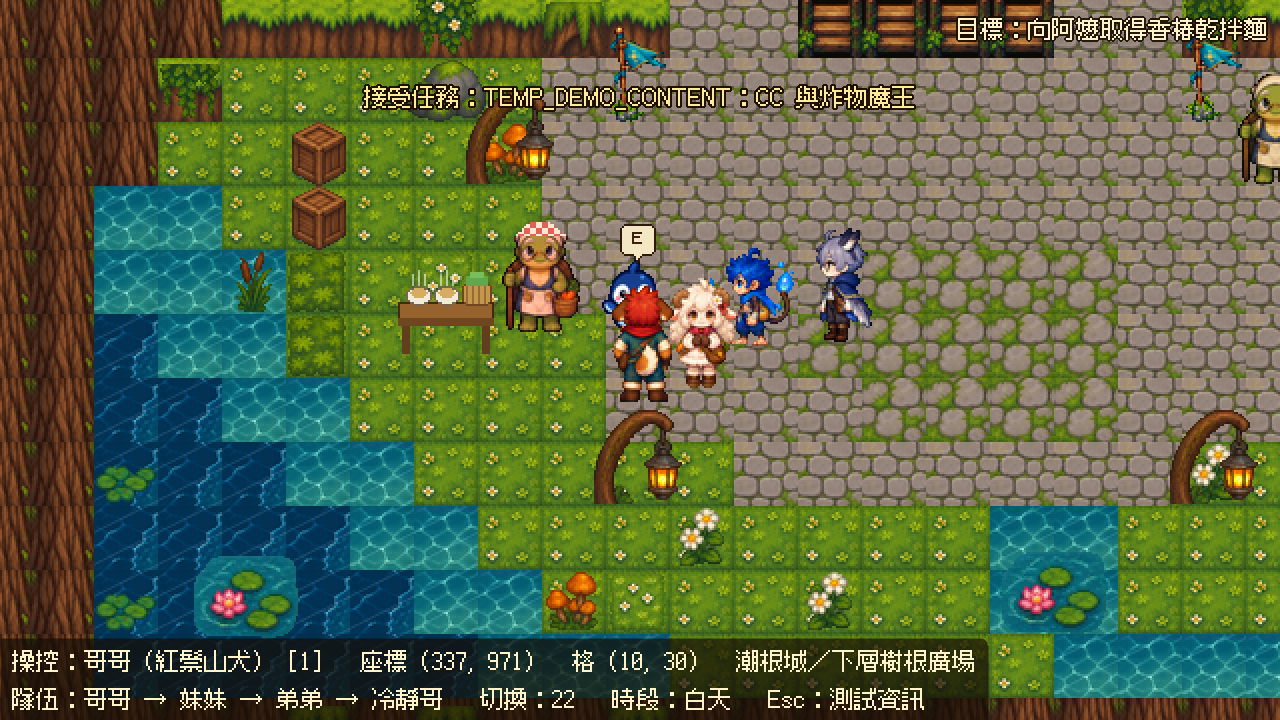
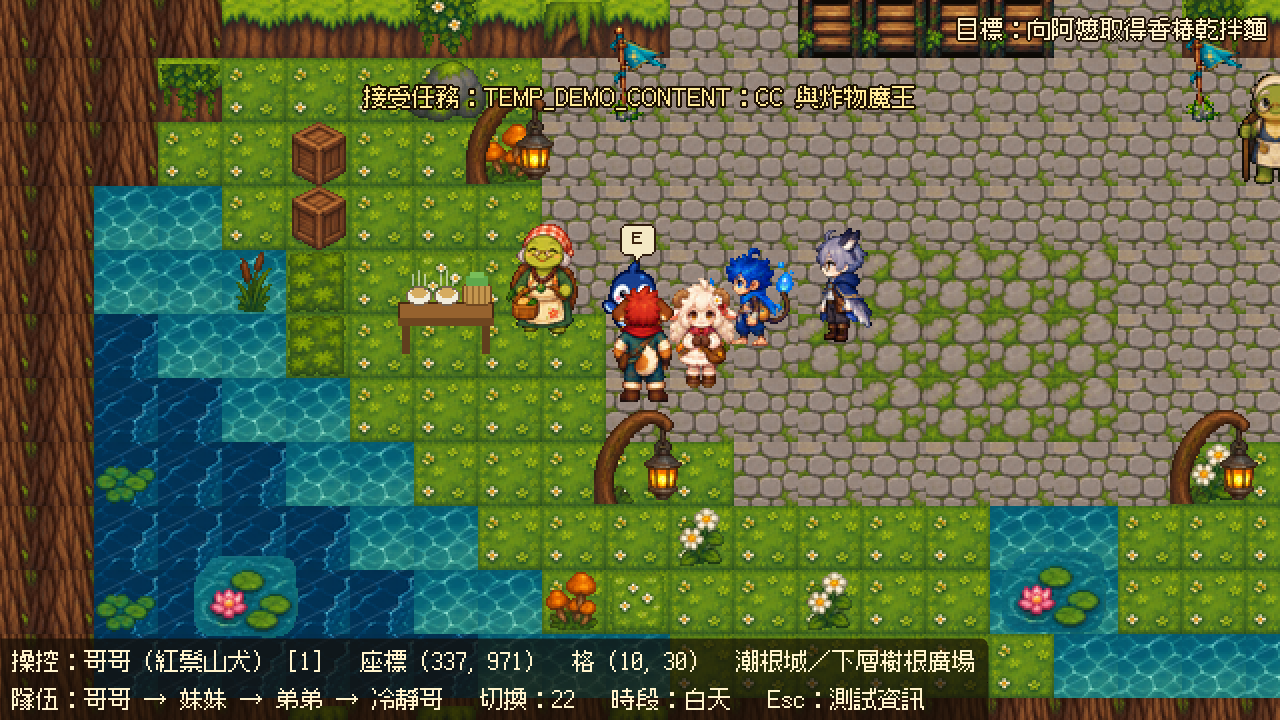
feat: 補上妹妹行動表與阿嬤正式精靈表（作者提供原圖）
- 妹妹 ACTION 參考圖：切出 carry／throw 四方向，sister_sheep.tres 接上行動表
- 阿嬤參考圖為五視角（非行走表）：重組為 down／left（鏡射）／right／up 站立幀後切割，取代老龜換色佔位
- build_character 可直接接收 Image；單元測試改為四張行動表與阿嬤 240×256
- 文件：PHASE_4_REPORT、ASSET_REQUEST D 節（僅剩洞窟參考待補）、手動流程、README、AGENTS

Claude-Session: https://claude.ai/code/session_01GHDh8zfAbX2ncmUix9vbN9

Changed region(s): [[0.375, 0.3056, 0.4688, 0.4583]]

diff --git a/tools/build_assets_phase4.py b/tools/build_assets_phase4.py
@@ -8,8 +8,8 @@
 - ITEM_throwables_vegetable_tea_water_reference.png：3 列（青菜、綠茶、水）× 4 欄（地面、舉起、飛行、命中）→ 每件 4 幀 28×28
 - FX_cc_battle_reference.png：傳送、投擲軌跡、命中、炸雞翅、消散、勝利 → 個別特效貼圖
 - ACTION_<角色>_carry_throw_reference.png：4 方向 × 4 欄 → 96×256（第 0 欄舉物、第 1 欄投擲）
-  妹妹的參考檔損毀（不是 PNG），沒有行動表：遊戲內以站立幀 + CarryAnchor 代替
-- 阿嬤與洞窟參考檔同樣損毀：阿嬤先用老龜換色當佔位；洞窟以合成的 32×32 tile 重建（tileset 第 5 列）
+  參考檔若不是 PNG（分支上曾有損毀檔）會略過並印出提示：遊戲內以站立幀 + CarryAnchor 代替
+- 阿嬤：正式參考圖存在時走主角切割器，否則用老龜換色當佔位；洞窟參考仍缺，以合成的 32×32 tile 重建（tileset 第 5 列）
 
 由 build_assets.py 自動呼叫，也可單獨執行：python3 tools/build_assets_phase4.py
 """
@@ -53,6 +53,7 @@ ACTION_SOURCES = {
 ACTION_ROW_ORDER = {
     "big_brother": ["down", "right", "left", "up"],
     "calm_brother": ["down", "right", "left", "up"],
+    "sister_sheep": ["down", "right", "left", "up"],
     "younger_brother": ["down", "right", "left", "up"],
 }
 OUTPUT_ROWS = ["down", "left", "right", "up"]
@@ -225,11 +226,35 @@ def build_action_sheets() -> None:
 # ---------------------------------------------------------------------------
 # 阿嬤（佔位）：老龜換色
 # ---------------------------------------------------------------------------
+def build_grandma_from_views(source: Path) -> None:
+    """阿嬤參考圖不是行走表：四列內容相同，每列是「正面、側面、側面提籃、背面、正面微笑」五種視角。
+    她是站立 NPC，只需要四個方向的站立幀；行走幀以兩種正面／側面交替填入（目前不會播放）。
+    組成 5 欄 × 4 列（第 0～3 欄行走、第 4 欄站立；列序 down/left/right/up）再交給主角切割器。"""
+    src = Image.open(source).convert("RGBA")
+    cells = grid_cells_n(src, 5, 4, min_area=200)
+    views = [src.crop(cells[(col, 0)]) for col in range(5)]
+    front, side, side_basket, back, front_smile = views
+    mirror = lambda im: im.transpose(Image.FLIP_LEFT_RIGHT)
+    rows = [
+        [front, front_smile, front, front_smile, front_smile],
+        [mirror(side), mirror(side_basket), mirror(side), mirror(side_basket), mirror(side)],
+        [side, side_basket, side, side_basket, side],
+        [back, back, back, back, back],
+    ]
+    cell_w = max(im.width for im in views) + 16
+    cell_h = max(im.height for im in views) + 16
+    synthetic = Image.new("RGBA", (cell_w * 5, cell_h * 4), (0, 0, 0, 0))
+    for row, images in enumerate(rows):
+        for col, im in enumerate(images):
+            synthetic.paste(im, (col * cell_w + (cell_w - im.width) // 2, row * cell_h + cell_h - 8 - im.height), im)
+    build_character(synthetic, OUT_NPCS / "grandma_turtle_sheet.png")
+
+
 def build_grandma_placeholder() -> None:
     source = INCOMING / "GRANDMA_turtle_breakfast_sheet_reference.png"
     if is_valid_png(source):
-        build_character(source, OUT_NPCS / "grandma_turtle_sheet.png")
-        print("grandma: 使用正式參考圖")
+        build_grandma_from_views(source)
+        print("grandma: 使用正式參考圖（五視角重組為四方向）")
         return
     turtle = Image.open(OUT_NPCS / "old_turtle_sheet.png").convert("RGBA")
     r, g, b, a = turtle.split()

diff --git a/tools/build_assets_phase2.py b/tools/build_assets_phase2.py
@@ -115,9 +115,9 @@ def grid_cells(src: Image.Image) -> dict[tuple[int, int], tuple[int, int, int, i
     return cells
 
 
-def build_character(source: Path, output: Path, max_height: int = CELL_H - 6) -> None:
-    """max_height：精靈在 48×64 格內的最大高度（主角 58；寵物等小型角色可傳較小值）。"""
-    src = Image.open(source).convert("RGBA")
+def build_character(source: Path | Image.Image, output: Path, max_height: int = CELL_H - 6) -> None:
+    """max_height：精靈在 48×64 格內的最大高度（主角 58；寵物等小型角色可傳較小值）。source 可直接傳 Image。"""
+    src = (source if isinstance(source, Image.Image) else Image.open(source)).convert("RGBA")
     width, height = src.size
     cell_w, cell_h = width / REF_COLUMNS, height / REF_ROWS
     cells = grid_cells(src)

diff --git a/docs/PHASE_4_REPORT.md b/docs/PHASE_4_REPORT.md
@@ -24,7 +24,7 @@
 | 只有操控角色可撿 | 完成 | `CarrySystem.pick_up()` 只對 `party.get_leader()` 生效；跟隨者不撿、不丟 |
 | CarryAnchor | 完成 | `playable_character.tscn` 新增 `VisualRoot/CarryAnchor`（0, −60）；物品貼圖掛在此節點，不畫進角色 Sprite |
 | 投擲 | 完成 | 舉著物品時 E → `CarrySystem.throw()` → `ThrownProjectile`（Area2D，只偵測物理層 5 Boss）沿面向飛 150px、視覺拋物線；起飛時以 `landing_point()` 把射程截到牆前，不會飛進牆。命中發 `hit_boss`，落地發 `landed`（物品掉在落點可再撿） |
-| 四位角色共用 | 完成 | 哥哥、冷靜哥、弟弟有 `carry_*`／`throw_*` 幀（行動表 96×256）；妹妹參考檔損毀，退回站立幀 + CarryAnchor，流程相同 |
+| 四位角色共用 | 完成 | 四位都有 `carry_*`／`throw_*` 幀（行動表 96×256）；妹妹的參考檔原本損毀，後由作者從 Downloads 提供原圖補上。沒有行動表的角色會退回站立幀 + CarryAnchor |
 
 ### 4C 炸物魔王
 
@@ -57,8 +57,9 @@
 | Boss 3×2 參考（棋盤格烙在像素裡） | `assets/characters/boss/fried_food_demon_sheet.png` 480×80（6 幀） | 從四邊泛洪去除連到邊緣的近白中性灰，雞身內的白色骨頭保留 |
 | 投擲物 4×3 | `assets/items/{vegetable_bundle,green_tea,water_flask}.png` 112×28（地面／舉起／飛行／命中） | 依格切割 |
 | 特效 3×2 | `assets/effects/fx_teleport／fx_hit_sparkle／fx_poof／fx_victory／fx_chicken_wing.png` | 依格切割；炸雞翅取掉落格中最大的單一元件；投擲軌跡改由程式旋轉與拋物線呈現 |
-| 行動表（哥哥、冷靜哥、弟弟） | `assets/characters/playable/<id>_action_sheet.png` 96×256 | 4×4 參考取第 0 欄（舉物）與第 2 欄（投擲）；列序 down/right/left/up 轉成專案的 down/left/right/up；縮放以既有站立幀寬度對齊，避免撿起時身形跳動 |
-| **妹妹行動表、洞窟參考、阿嬤參考** | — | **三個檔案不是 PNG（開頭為亂碼，遠端分支上就已損毀）**。妹妹以站立幀代替；洞窟依規劃用 32×32 tile 合成重建（tileset 第 5 列：地面、岩壁、油漬地面、受光牆面）；阿嬤以老龜換色 + 格紋頭巾當佔位 |
+| 行動表（四位） | `assets/characters/playable/<id>_action_sheet.png` 96×256 | 4×4 參考取第 0 欄（舉物）與第 2 欄（投擲）；列序 down/right/left/up 轉成專案的 down/left/right/up；縮放以既有站立幀寬度對齊，避免撿起時身形跳動 |
+| 阿嬤參考（原圖由作者補上） | `assets/characters/npcs/grandma_turtle_sheet.png` 240×256 | 參考圖四列相同、每列是五種視角（正面、側面、側面提籃、背面、正面微笑），不是行走表；重組為 down／left（鏡射側面）／right／up 四方向站立幀後交給主角切割器 |
+| **洞窟參考** | — | **分支上的檔案不是 PNG（開頭為亂碼），作者的 Downloads 也沒有這張**。依規劃用 32×32 tile 合成重建（tileset 第 5 列：地面、岩壁、油漬地面、受光牆面） |
 | 早餐攤、香椿乾拌麵圖示、💢、愛心 | `assets/props/breakfast_stall.png`、`assets/ui/*.png` | 程式繪製 |
 
 ## 2. 新增與修改的檔案
@@ -72,7 +73,7 @@ assets/maps/fried_food_cave.txt、fried_food_cave_props.json、assets/dialogue/f
 assets/items/throwables.json + 三張物品精靈表
 assets/quests/phase4_cc_quest.json
 assets/characters/pets/cc_penguin.tres + 精靈表、assets/characters/boss/、assets/characters/npcs/grandma_turtle.tres + 精靈表
-assets/characters/playable/*_action_sheet.png（3 張）、assets/effects/fx_*.png（5 張）、assets/ui/anger_mark／heart_full／heart_empty／item_noodles.png、assets/props/breakfast_stall.png
+assets/characters/playable/*_action_sheet.png（4 張）、assets/effects/fx_*.png（5 張）、assets/ui/anger_mark／heart_full／heart_empty／item_noodles.png、assets/props/breakfast_stall.png
 tools/build_assets_phase4.py
 docs/PHASE_4_REPORT.md、docs/screenshots/12～18
 
@@ -143,13 +144,13 @@ docs/MANUAL_TEST_GUIDE.md、README.md、AGENTS.md、docs/ASSET_REQUEST.md
 ## 5. 暫時內容（正式內容到位後替換）
 
 - `assets/quests/phase4_cc_quest.json` 整個任務；`assets/dialogue/tide_root_town.json` 的 `grandma_turtle`、`cc_penguin` 所有版本（CC 台詞為短句 + です，其餘標 TEMP_DEMO_CONTENT；拒絕分支的 💢 與 OS 為規劃指定內容）。
-- 阿嬤精靈表為老龜換色佔位；洞窟 tile 為程式合成；妹妹沒有舉物／投擲幀。
+- 洞窟 tile 為程式合成；阿嬤的行走幀只是正面／側面交替（她不會走動，目前不播放）。
 - 早餐攤、愛心、💢、香椿乾拌麵圖示為程式繪製。
 - Boss 攻擊只有「衝撞」一種；沒有音效。
 
 ## 6. 未完成／取捨
 
-- **損毀素材**：`ACTION_sister_carry_throw_reference.png`、`CAVE_fried_food_demon_arena_reference.png`、`GRANDMA_turtle_breakfast_sheet_reference.png` 需重新交付（見 `docs/ASSET_REQUEST.md` D 節）。
+- **損毀素材**：分支上妹妹行動表、阿嬤、洞窟三個檔案都不是 PNG；妹妹與阿嬤已由作者提供原圖補上，`CAVE_fried_food_demon_arena_reference.png` 仍需重新交付（見 `docs/ASSET_REQUEST.md` D 節）。
 - 「回到共享家庭屋休息才進入下一個遊戲日」：目前沒有每日系統，本階段未建立，也沒有把 F5 接到任何每日邏輯。
 - 洞窟只有一個房間、沒有小怪；物品命中後在原位重生（2 秒），沒打中則掉在落點——這樣 5 次命中一定可達成。
 - 拒絕分支的旗標命名：接受 → `cc_join_choice`；拒絕 → `cc_rejection_reaction_seen`（規劃的 `cc_join_choice` 解讀為「是否接受」）。
@@ -158,6 +159,6 @@ docs/MANUAL_TEST_GUIDE.md、README.md、AGENTS.md、docs/ASSET_REQUEST.md
 
 ## 7. 建議下一步
 
-1. 請遠端重新交付三個損毀檔；阿嬤與妹妹行動表到位後只要重跑 `tools/build_assets.py` 並 `--import`。
+1. 請遠端重新交付洞窟參考圖（若能附 32×32 tile 組更好）；到位後只要重跑 `tools/build_assets.py` 並 `--import`。
 2. 若要做「休息進入下一天」，建議在 `GameState` 加 `day` 欄位（schema_version 3）並由家庭屋的床互動觸發。
 3. 好感度、CC 小動作種類、Boss 第二種攻擊都可以只改 `PetFollower`／`FriedFoodDemon`，不動其他系統。

diff --git a/docs/MANUAL_TEST_GUIDE.md b/docs/MANUAL_TEST_GUIDE.md
@@ -129,7 +129,7 @@ godot --path /Users/dongyixuan/tungworld
 |---|---|---|---|
 | 10.1 | 下層廣場左側早餐攤（格 (10,30) 面向上）對 CC 按 E | 頭像出現；CC 短句、句尾「です」；關閉後「接受任務：TEMP_DEMO_CONTENT：CC 與炸物魔王」，右上角目標「向阿嬤取得香椿乾拌麵」 |  |
 | 10.2 | 再對 CC 按 E | 「麺、まだ、です。」，不傳送 |  |
-| 10.3 | 對旁邊的阿嬤（格 (9,30) 面向上）按 E | 阿嬤戴格紋頭巾（佔位）；關閉後「取得：香椿乾拌麵」，目標更新為交給 CC |  |
+| 10.3 | 對旁邊的阿嬤（格 (9,30) 面向上）按 E | 阿嬤（格紋頭巾、圍裙、早餐籃）轉向面對你；關閉後「取得：香椿乾拌麵」，目標更新為交給 CC |  |
 | 10.4 | 再對阿嬤按 E | 不會重複給麵 |  |
 | 10.5 | 對 CC 按 E | CC 收麵並說明規則；關閉後四人腳下出現藍色傳送光柱約 0.5 秒，淡出後抵達「炸物魔王洞窟」 |  |
 | 10.6 | 看洞窟畫面 | 左上三顆愛心與「炸物魔王」五隻雞翅；上方遠處有戴王冠的炸全雞在踱步；左、右、下各有青菜、綠茶、水 |  |
@@ -144,7 +144,7 @@ godot --path /Users/dongyixuan/tungworld
 | 11.3 | 舉著青菜再靠近綠茶按 E | 不會撿第二件，而是把青菜往面向方向丟出去 |  |
 | 11.4 | 沒打中的青菜 | 畫拋物線落地後留在地上，可以再撿；朝牆丟會落在牆前，不會飛進牆裡 |  |
 | 11.5 | 面向 Boss 丟中 | 綠色噴濺 + 火花；Boss 閃白抖動；一隻炸雞翅彈出、彈跳一次、停一下後縮小消失；上方雞翅圖示少一隻；物品消失、約 2 秒後在原位重新出現 |  |
-| 11.6 | 按 2、3、4 切換角色各丟一次 | 冷靜哥、弟弟有舉手／投擲姿勢；妹妹維持站立姿勢但物品照樣在頭頂、照樣能丟（妹妹行動表待補） |  |
+| 11.6 | 按 2、3、4 切換角色各丟一次 | 四位都有舉手／投擲姿勢，物品在頭頂；妹妹的舉物姿勢略小於站立幀（可回報觀感） |  |
 | 11.7 | 舉著物品時按 2 切換 | 原角色仍舉著物品跟在後面，不會自動丟；切回來按 E 才丟 |  |
 | 11.8 | 觀察 Boss | 待機 → 慢慢走向你 → 停下、舉翅、紅色脈動抖動約 0.75 秒（預兆）→ 朝你衝撞 → 停下 |  |
 | 11.9 | 被衝撞打中 | 角色紅色閃爍約 1 秒、愛心少一顆；閃爍期間再被撞不會再扣 |  |

diff --git a/docs/ASSET_REQUEST.md b/docs/ASSET_REQUEST.md
@@ -14,7 +14,7 @@
 > **2026-09-04 進度**：A1～A10 已交付並套用（見 `docs/PHASE_2_REPORT.md` 第 2 節）。
 > A11～A19 以合成參考表交付，已切割使用其中的虛空、雲霧、深色樹皮、樓梯；**過渡組（A11、A12）需重產**，規格見下方更新。
 > B1、B2、B4、B5、B6 目前以程式合成 placeholder 運作中；B3、B10 已交付並套用；B7、B8、B9 尚未交付。
-> **Phase 4（2026-09-04）**：CC、炸物魔王、投擲物、特效、三張行動表已切割套用；**D1～D3 三個檔案損毀需重傳**（見下方 D 節）。
+> **Phase 4（2026-09-04）**：CC、炸物魔王、投擲物、特效、三張行動表已切割套用；**D1、D2 已由作者提供原圖補上；D3 洞窟參考仍需重傳**（見下方 D 節）。
 
 ---
 
@@ -104,6 +104,6 @@
 
 | 編號 | 檔案 | 目前處理 | 規格 |
 |---|---|---|---|
-| D1 | `ACTION_sister_carry_throw_reference.png` | 妹妹以站立幀舉物、投擲（物品仍掛在頭頂） | 與其他三張行動表相同：4 方向（下、右、左、上）× 4 欄（舉物、舉物、投擲、舉物），透明背景 |
-| D2 | `GRANDMA_turtle_breakfast_sheet_reference.png` | 老龜換色 + 格紋頭巾佔位 | 5 欄 × 4 列（4 行走幀 + 1 站立），圍裙、格紋頭巾、念珠、早餐籃 |
+| D1 | `ACTION_sister_carry_throw_reference.png` | **已補上**（作者 Downloads 原圖 1086×1448），已切割套用 | 與其他三張行動表相同：4 方向（下、右、左、上）× 4 欄（舉物、舉物、投擲、舉物），透明背景 |
+| D2 | `GRANDMA_turtle_breakfast_sheet_reference.png` | **已補上**（原圖 1224×1285）。注意它不是行走表：四列相同、每列為五種視角；已重組為四方向站立幀。若之後需要阿嬤走動，請另交 5 欄 × 4 列的行走表 | 5 欄 × 4 列（4 行走幀 + 1 站立），圍裙、格紋頭巾、念珠、早餐籃 |
 | D3 | `CAVE_fried_food_demon_arena_reference.png` | 以程式合成的 32×32 洞窟 tile 重建（地面、岩壁、油漬地面、受光牆面） | 只作構圖參考即可；若能另附 32×32 洞窟 tile 組（地面 2 款、岩壁面、岩壁頂、四角）更好 |

diff --git a/AGENTS.md b/AGENTS.md
@@ -96,5 +96,5 @@ caffeinate -dis godot --path . --always-on-top -- --route-test --shots=$PWD/docs
 
 - 遊戲素材由 `tools/build_assets.py`（依序呼叫 phase2～phase4）從 `assets/reference/` 與 `assets/reference/incoming/` 切割產生，改參考圖後重跑即可；不要手改 `assets/characters`、`assets/props`、`assets/tilesets`、`assets/items`、`assets/effects` 裡的 PNG。
 - 重跑素材後一定要 `godot --headless --path . --import`，執行期不會重新匯入改過的 PNG。
-- 收到新參考圖先確認是 PNG（`file` 或前 8 bytes）；Phase 4 有三個檔案內容是亂碼，切割器會略過並印出提示。
+- 收到新參考圖先確認是 PNG（`file` 或前 8 bytes）；Phase 4 分支上有三個檔案內容是亂碼，切割器會略過並印出提示。也要確認參考圖真的是行走表：阿嬤那張四列相同、每列是五種視角，切割器有專門的重組流程。
 - 字型：Fusion Pixel 12px（OFL，`assets/ui/FUSION_PIXEL_OFL.txt`），UI 字級請用 12 的倍數。

diff --git a/README.md b/README.md
@@ -136,7 +136,7 @@ assets/
   dialogue/              對話內容 JSON（主城、共享家庭屋、船長房間）
   quests/                任務定義 JSON
   portraits/             48×48 頭像（四位主角、兩位 NPC）
-  characters/npcs/       NPC 精靈表與 CharacterData（阿嬤為老龜換色佔位）
+  characters/npcs/       NPC 精靈表與 CharacterData
   characters/pets/       CC 精靈表與 CharacterData
   characters/boss/       炸物魔王 6 幀精靈表
   items/                 投擲物精靈表（地面／舉起／飛行／命中）與 throwables.json
